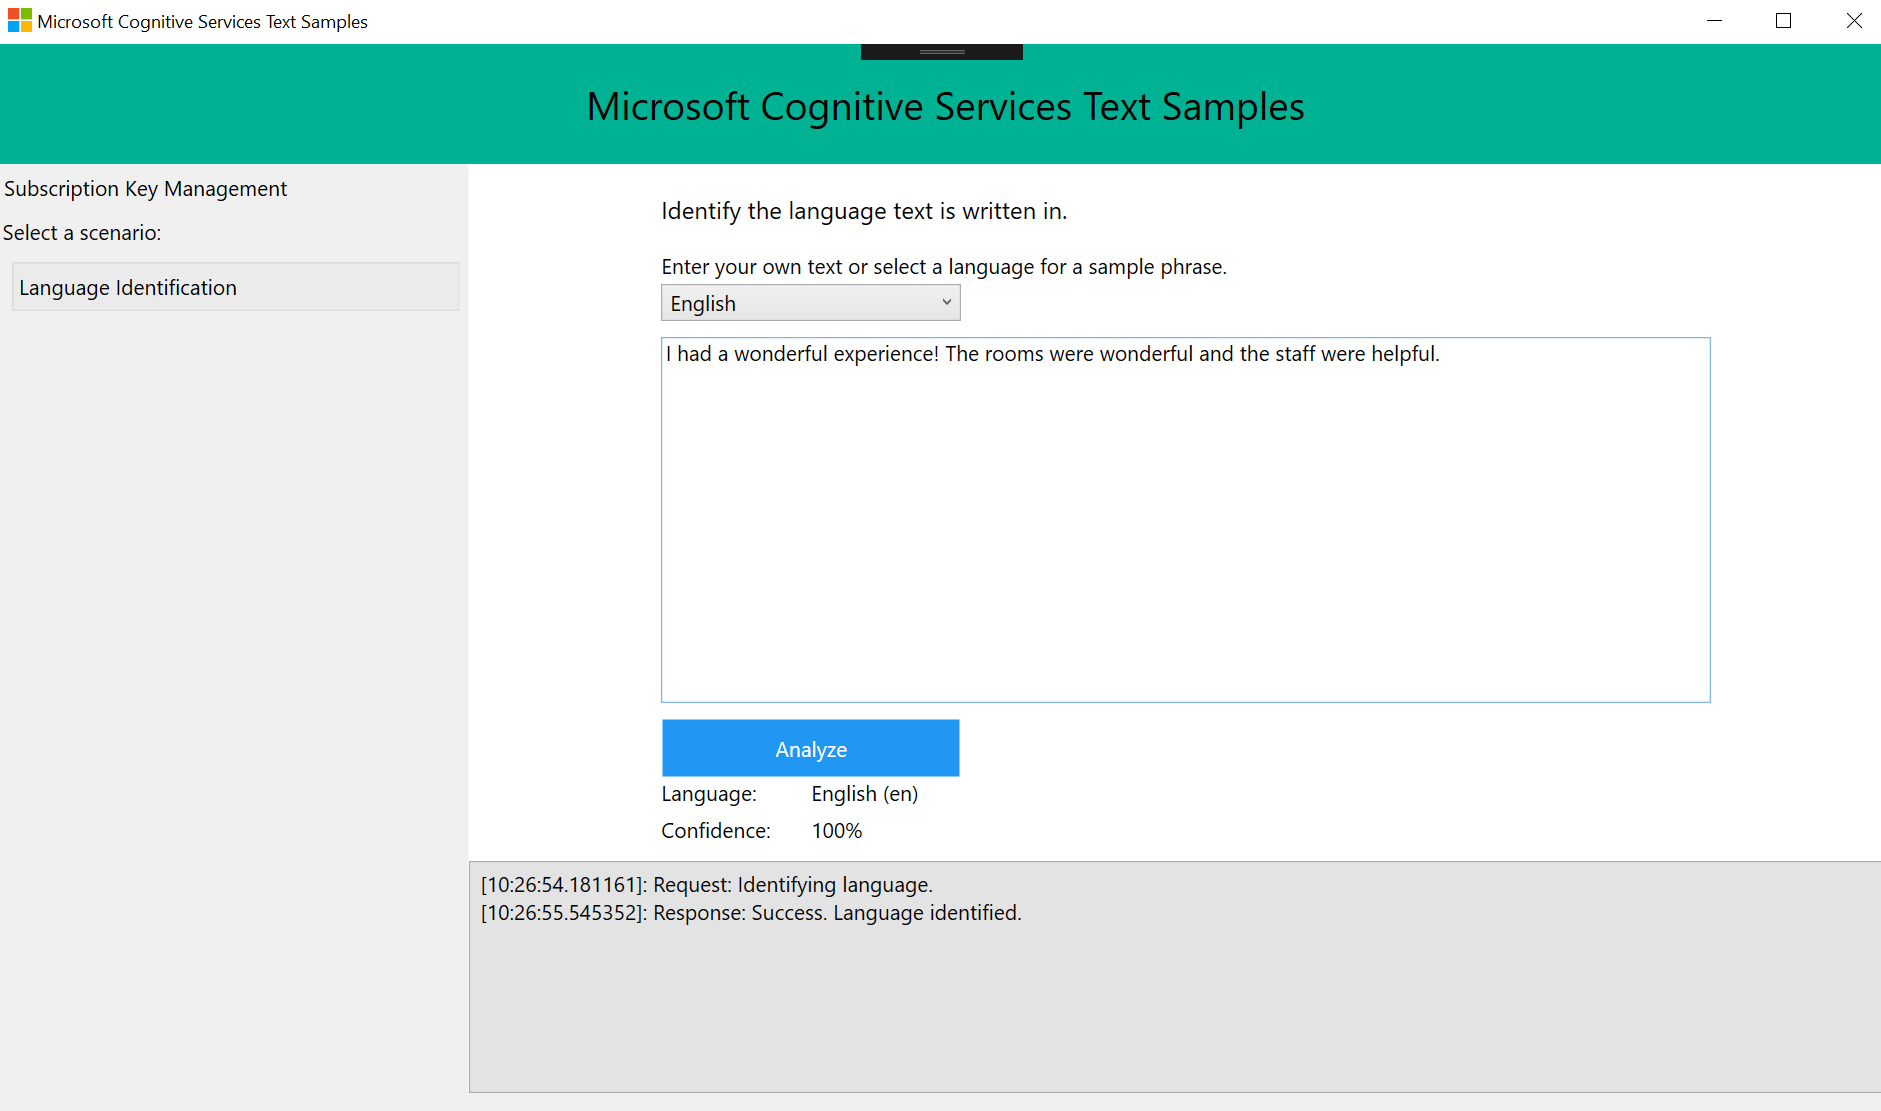
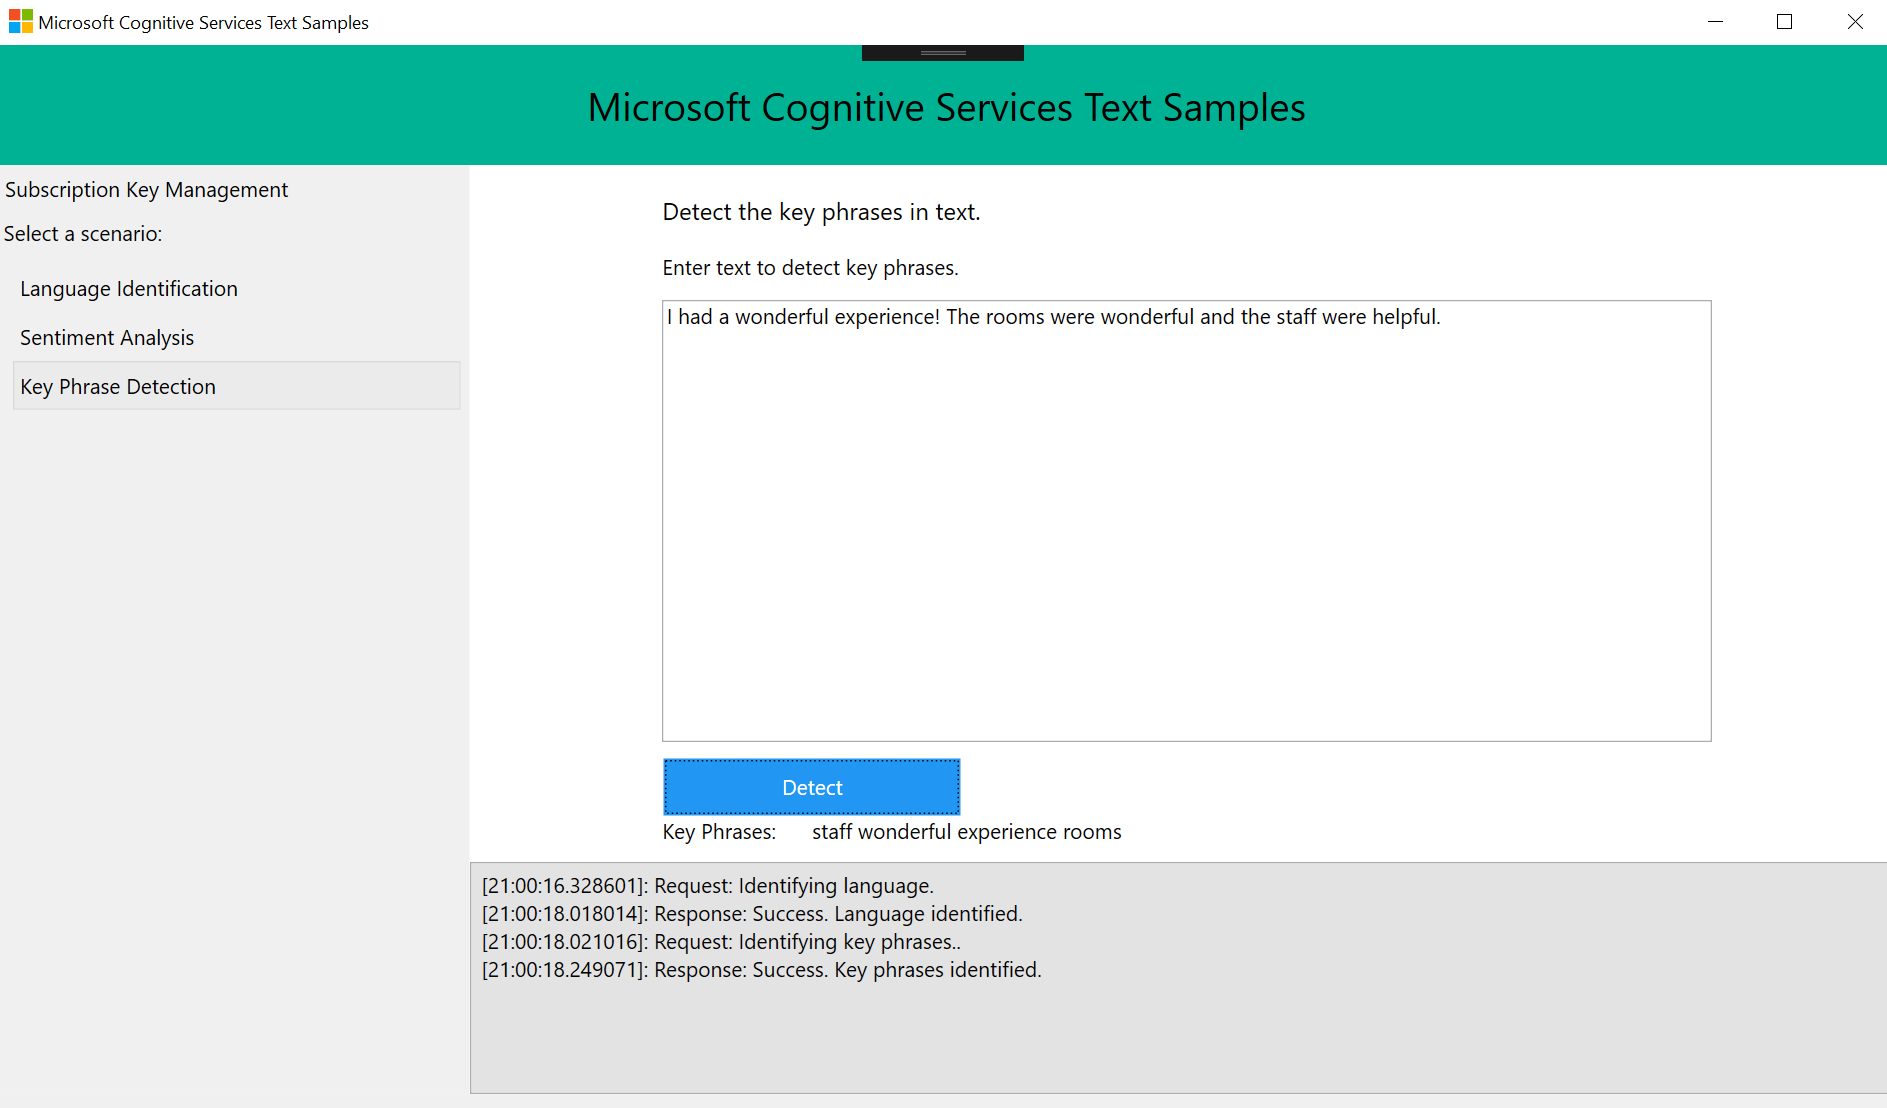
more doc updates for #6

diff --git a/README.md b/README.md
@@ -13,7 +13,7 @@ Text Analytics API is a suite of text analytics services built with Azure Machin
 The solution contains the SDK and a sample application that allows you to enter your API key and text to perform the following actions:
 - Language identification
 - Sentiment analysis
-- Key phrase detection *_(coming soon)_*
+- Key phrase detection
 - Topic detection *_(coming soon)_*
 
 ## The Client Library
@@ -24,14 +24,14 @@ Please go to the [Text API Package in Nuget](https://www.nuget.org/packages/Micr
 For details on how to use the Client Library, refer to the following articles:
 - [LanguageClient](Docs/language-client.md)
 - [SentimentClient](Docs/sentiment-client.md)
-- KeyPhraseClient *_(coming soon)_*
+- [KeyPhraseClient](Docs/keyphrase-client.md)
 - TopicClient *_(coming soon)_*
 
 ## The WPF Sample
 This sample is a Windows WPF application to demonstrate the use of Text Analytics API. It demonstrates the following:
 - Language identification
 - Sentiment analysis
-- Key phrase detection *_(coming soon)_*
+- Key phrase detection
 - Topic detection *_(coming soon)_*
 
 ### Build the WPF Sample

diff --git a/Docs/readme.md b/Docs/readme.md
@@ -8,6 +8,8 @@
 
 * [SentimentClient](sentiment-client.md) - walks you through using the SentimentClient to analyze sentiment in text.
 
+* [KeyPhraseClient](keyphrase-client.md) - walks you through using the KeyPhraseClient to identify key phrases in text.
+
 * [Roadmap](https://trello.com/b/HJOR3GnH/cognitive-textanalytics-windows) - provides details about what's been done, what's being worked on now, and what's up next.
 
 * [CI Pipeline](ci-pipeline.md) - explains the continuous integration (CI) pipeline used by the project.
